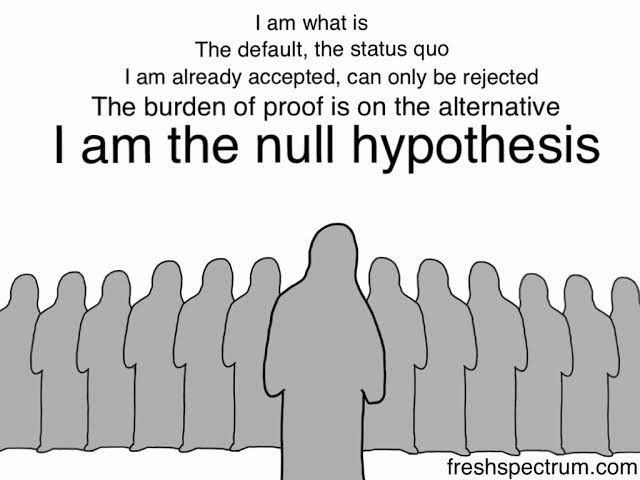
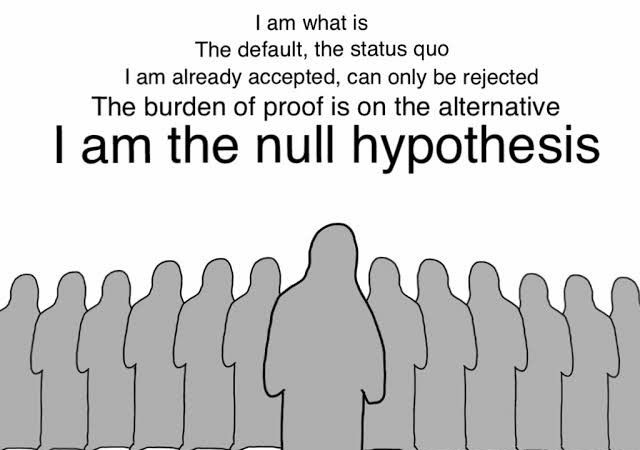
Enhance article layout with hero image, share bar styling, and spacing refinements

diff --git a/public/articles/what-is-mde/index.html b/public/articles/what-is-mde/index.html
@@ -22,14 +22,58 @@
   <div id="navbar-root"></div>
 
   <!-- =========================
-       ARTICLE HERO
-       ========================= -->
+      ARTICLE HERO
+  ========================= -->
   <header class="article-hero">
-    <h1>What Is Minimum Detectable Effect (MDE)?</h1>
-    <p class="article-description">
-      Minimum Detectable Effect (MDE) is the smallest true difference between variants that an A/B test is statistically powered to detect at a given confidence level and power.
-    </p>
+    <div class="article-hero-inner">
+      <h1>What Is Minimum Detectable Effect (MDE)?</h1>
+      <p class="article-description">
+        Minimum Detectable Effect (MDE) is the smallest true difference between variants that an A/B test is statistically powered to detect at a given confidence level and power.
+      </p>
+    </div>
   </header>
+
+  <!-- =========================
+      ARTICLE HERO IMAGE
+  ========================= -->
+  <section class="article-hero-media">
+    <img
+      src="/public/articles/images/article-hero.png"
+      alt="Article visual illustration"
+    />
+  </section>
+
+  <!-- =========================
+      ARTICLE META / SHARE
+  ========================= -->
+  <section class="article-meta">
+    <div class="article-share">
+      <span class="share-label">Share</span>
+
+      <a
+        href="https://twitter.com/intent/tweet?url=https://pvalue.net/articles/what-is-mde/"
+        target="_blank"
+        rel="noopener"
+      >
+        Twitter
+      </a>
+
+      <a
+        href="https://www.linkedin.com/sharing/share-offsite/?url=https://pvalue.net/articles/what-is-mde/"
+        target="_blank"
+        rel="noopener"
+      >
+        LinkedIn
+      </a>
+
+      <button
+        onclick="navigator.clipboard.writeText(window.location.href)"
+        class="copy-link"
+      >
+        Copy link
+      </button>
+    </div>
+  </section>
 
   <!-- =========================
        ARTICLE CONTENT

diff --git a/public/articles/style.css b/public/articles/style.css
@@ -168,15 +168,17 @@
 ========================= */
 
 .article-hero-media {
-  max-width: 1100px;
-  margin: -40px auto 48px;
+  max-width: 1200px;
+  margin: 48px auto 56px;
   padding: 0 24px;
 }
 
 .article-hero-media img {
   width: 100%;
+  aspect-ratio: 3 / 2;
   height: auto;
   border-radius: 18px;
+  object-fit: cover;   
 
   box-shadow:
     0 18px 40px rgba(0, 0, 0, 0.12),
@@ -189,7 +191,7 @@
 
 .article-meta {
   max-width: 820px;
-  margin: 0 auto 72px;
+  margin: 0 auto 20px;
   padding: 0 24px;
 }
 
@@ -210,14 +212,26 @@
 .article-share a,
 .article-share .copy-link {
   text-decoration: none;
-  background: #ffffff;
-  border: 1px solid #e5e7eb;
+
+  /* Visual emphasis */
+  background: linear-gradient(
+    180deg,
+    #ffffff,
+    #f8fafc
+  );
+  border: 1px solid #dbeafe;
+
   border-radius: 999px;
-  padding: 6px 14px;
+  padding: 8px 16px;
 
   font-size: 13px;
+  font-weight: 600;
   color: #2563eb;
+
   cursor: pointer;
+
+  box-shadow:
+    0 4px 12px rgba(37, 99, 235, 0.12);
 
   transition:
     background 0.2s ease,
@@ -227,7 +241,14 @@
 
 .article-share a:hover,
 .article-share .copy-link:hover {
-  background: #f8fafc;
+  background: linear-gradient(
+    180deg,
+    #ffffff,
+    #eef2ff
+  );
+
   transform: translateY(-1px);
-  box-shadow: 0 6px 14px rgba(0, 0, 0, 0.08);
+
+  box-shadow:
+    0 8px 20px rgba(37, 99, 235, 0.18);
 }

diff --git a/articles/shared/article_layout.html b/articles/shared/article_layout.html
@@ -25,7 +25,7 @@
       ARTICLE HERO
   ========================= -->
   <header class="article-hero">
-    <div class="article-hero-inner reveal">
+    <div class="article-hero-inner">
       <h1>{{title}}</h1>
       <p class="article-description">
         {{description}}
@@ -36,7 +36,7 @@
   <!-- =========================
       ARTICLE HERO IMAGE
   ========================= -->
-  <section class="article-hero-media reveal">
+  <section class="article-hero-media">
     <img
       src="/public/articles/images/article-hero.png"
       alt="Article visual illustration"
@@ -46,7 +46,7 @@
   <!-- =========================
       ARTICLE META / SHARE
   ========================= -->
-  <section class="article-meta reveal">
+  <section class="article-meta">
     <div class="article-share">
       <span class="share-label">Share</span>
 
